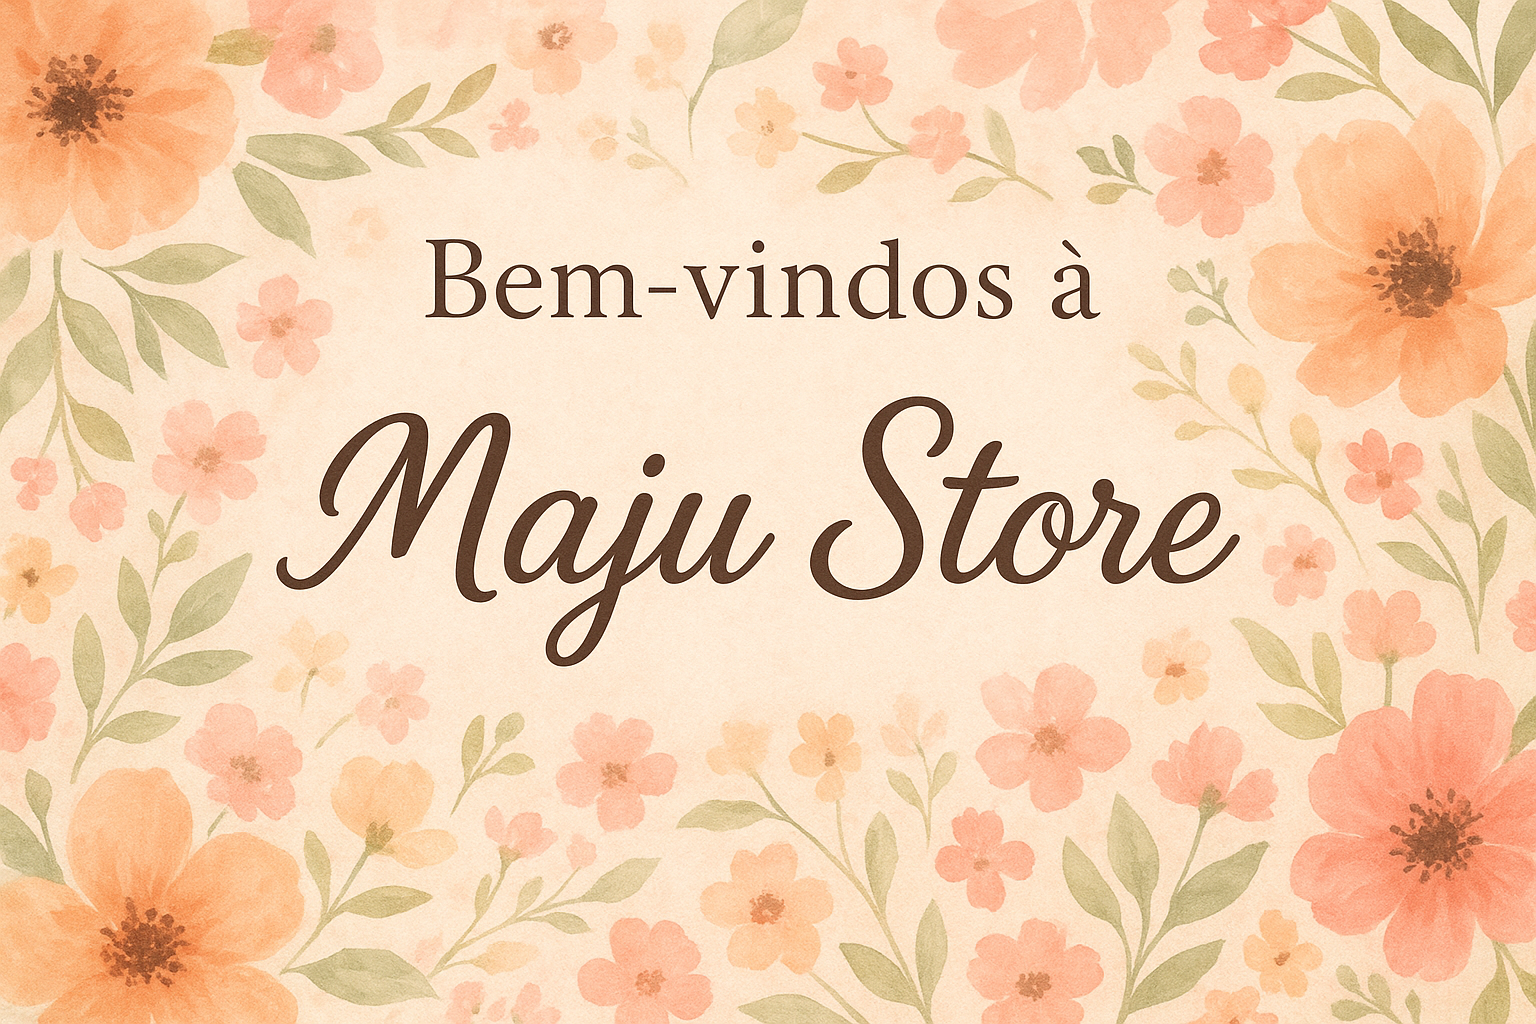
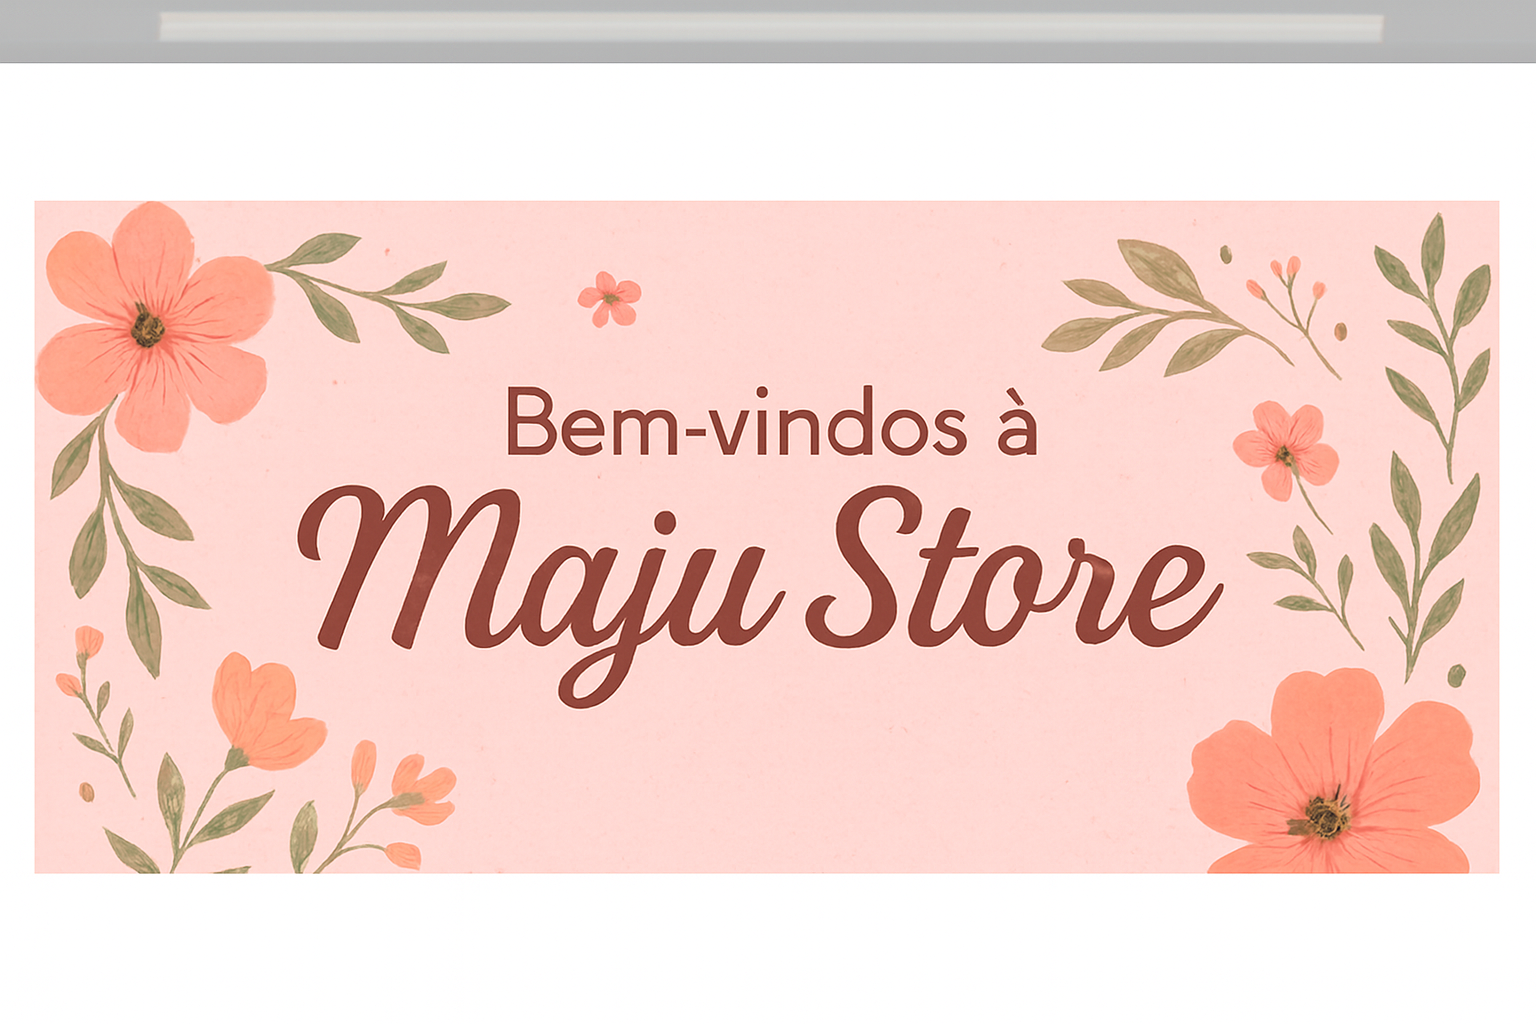
updates

diff --git a/templates/index.html b/templates/index.html
@@ -4,6 +4,35 @@
     <meta charset="UTF-8">
     <title>Maju Store</title>
     <link rel="stylesheet" href="/static/style.css">
+    <style>
+      /* Hero banner styles (adapte ao seu arquivo CSS principal se preferir) */
+      .hero { position: relative; width: 100%; overflow: hidden; background: #f9e8ea; display:block; }
+      .hero-img { width: 100%; height: 320px; object-fit: cover; display:block; filter: saturate(0.98); }
+      .hero-content { position: absolute; top: 50%; left: 50%; transform: translate(-50%,-50%); text-align: left; color: #5b2b2b; padding: 18px; max-width: 1100px; width: calc(100% - 40px); display:flex; align-items:center; gap:20px; }
+      .hero-text { background: rgba(255,255,255,0.65); padding: 16px 22px; border-radius: 10px; backdrop-filter: blur(4px); }
+      .hero-text h1 { font-family: 'Playfair Display', Georgia, serif; font-size: 2rem; margin: 0 0 6px; color:#5b2b2b; }
+      .hero-text p { margin: 0 0 10px; color:#6b4b4b; font-size: 1rem; }
+      .hero-cta { display:inline-block; background:#f7b3b3; color:#5b2b2b; padding:10px 16px; border-radius:8px; text-decoration:none; font-weight:600; }
+      /* floral/illustration placeholder positioning for visual balance */
+      .hero-decoration { display:none; }
+      @media (min-width:800px){
+        .hero-img { height: 420px; }
+        .hero-text h1 { font-size: 2.8rem; }
+        .hero-text p { font-size: 1.05rem; }
+        .hero-decoration { display:block; position:absolute; top:10px; right:10px; width:200px; height:200px; opacity:0.95; pointer-events:none; }
+      }
+      @media (max-width:599px){
+        .hero-img { height: 260px; }
+        .hero-content { top: 58%; transform: translate(-50%,-58%); }
+        .hero-text h1 { font-size:1.4rem; }
+      }
+
+      /* Pequenos ajustes de layout para o resto da página */
+      header { display:flex; justify-content:space-between; align-items:center; padding:12px 20px; background:#fff; border-bottom:1px solid #eee; position:relative; z-index:20; }
+      header h1 { margin:0; font-size:1.2rem; color:#5b2b2b; }
+      nav a { margin-left:12px; color:#5b2b2b; text-decoration:none; font-weight:600; }
+      .hero .hero-img + .hero-content { pointer-events:none; } /* impede clique na camada de texto sobre a imagem */
+    </style>
 </head>
 <body>
     <header>
@@ -23,6 +52,19 @@
             {% endif %}
         </nav>
     </header>
+
+    <!-- Hero banner: coloque a imagem em /static/imagens/maju-banner.jpg -->
+    <section class="hero" aria-label="Banner principal Maju Store">
+      <img src="/static/imagens/maju-banner.jpg" alt="Bem-vindos à Maju Store — moda feminina" class="hero-img">
+      <div class="hero-content" role="group" aria-hidden="false">
+        <div class="hero-text" role="article">
+          <h1>Bem-vindos à Maju Store</h1>
+          <p>Um universo de moda feminina feito pra você</p>
+          <a class="hero-cta" href="/produtos">Ver novidades</a>
+        </div>
+        <img src="/static/imagens/maju-banner-decor.png" alt="" class="hero-decoration" aria-hidden="true">
+      </div>
+    </section>
 
     {% with messages = get_flashed_messages() %}
       {% if messages %}
